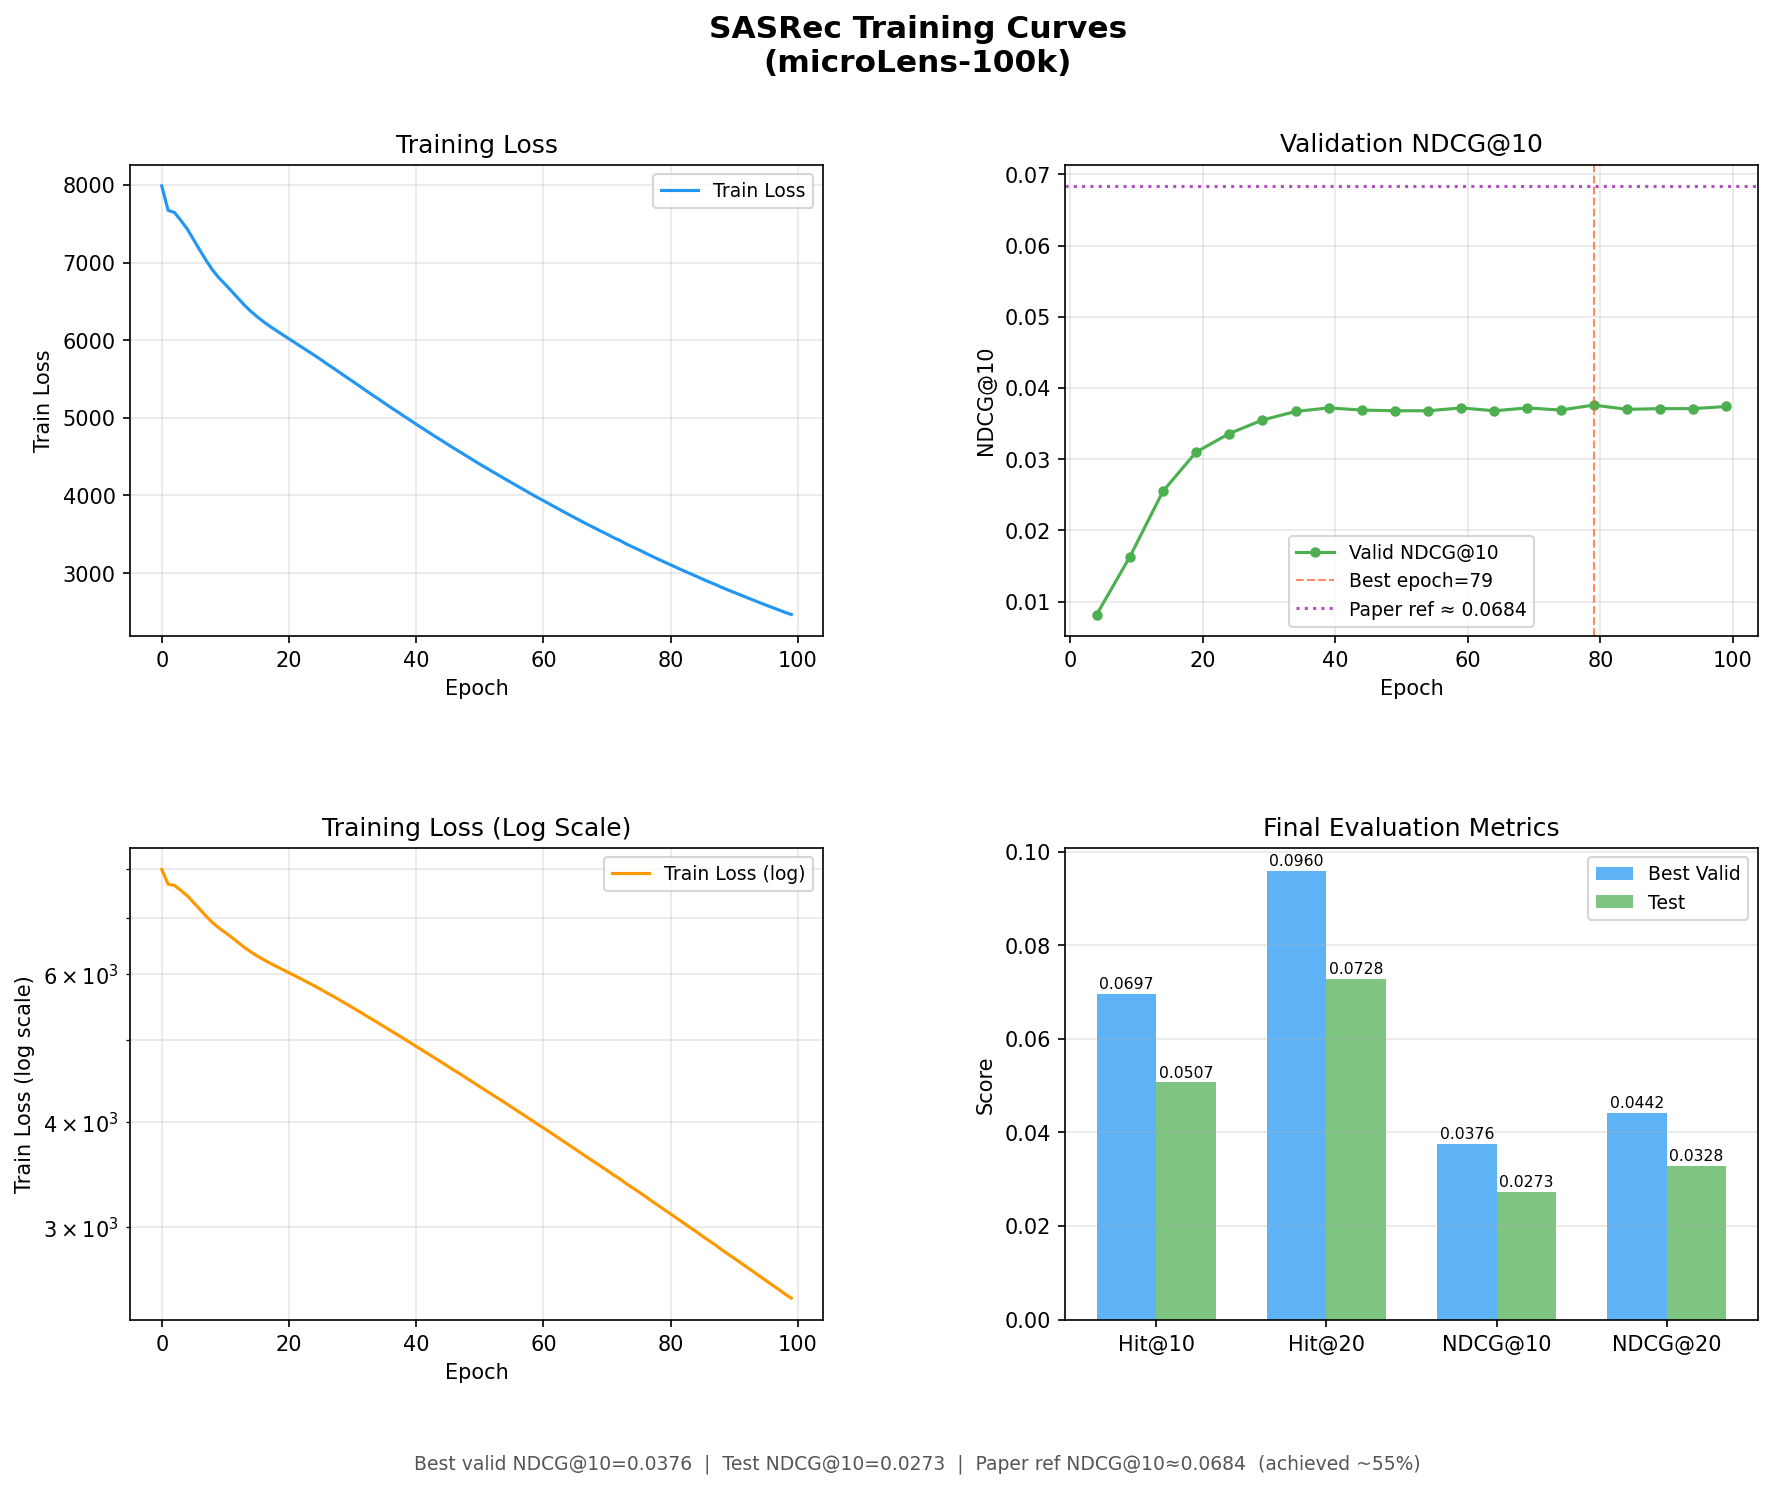
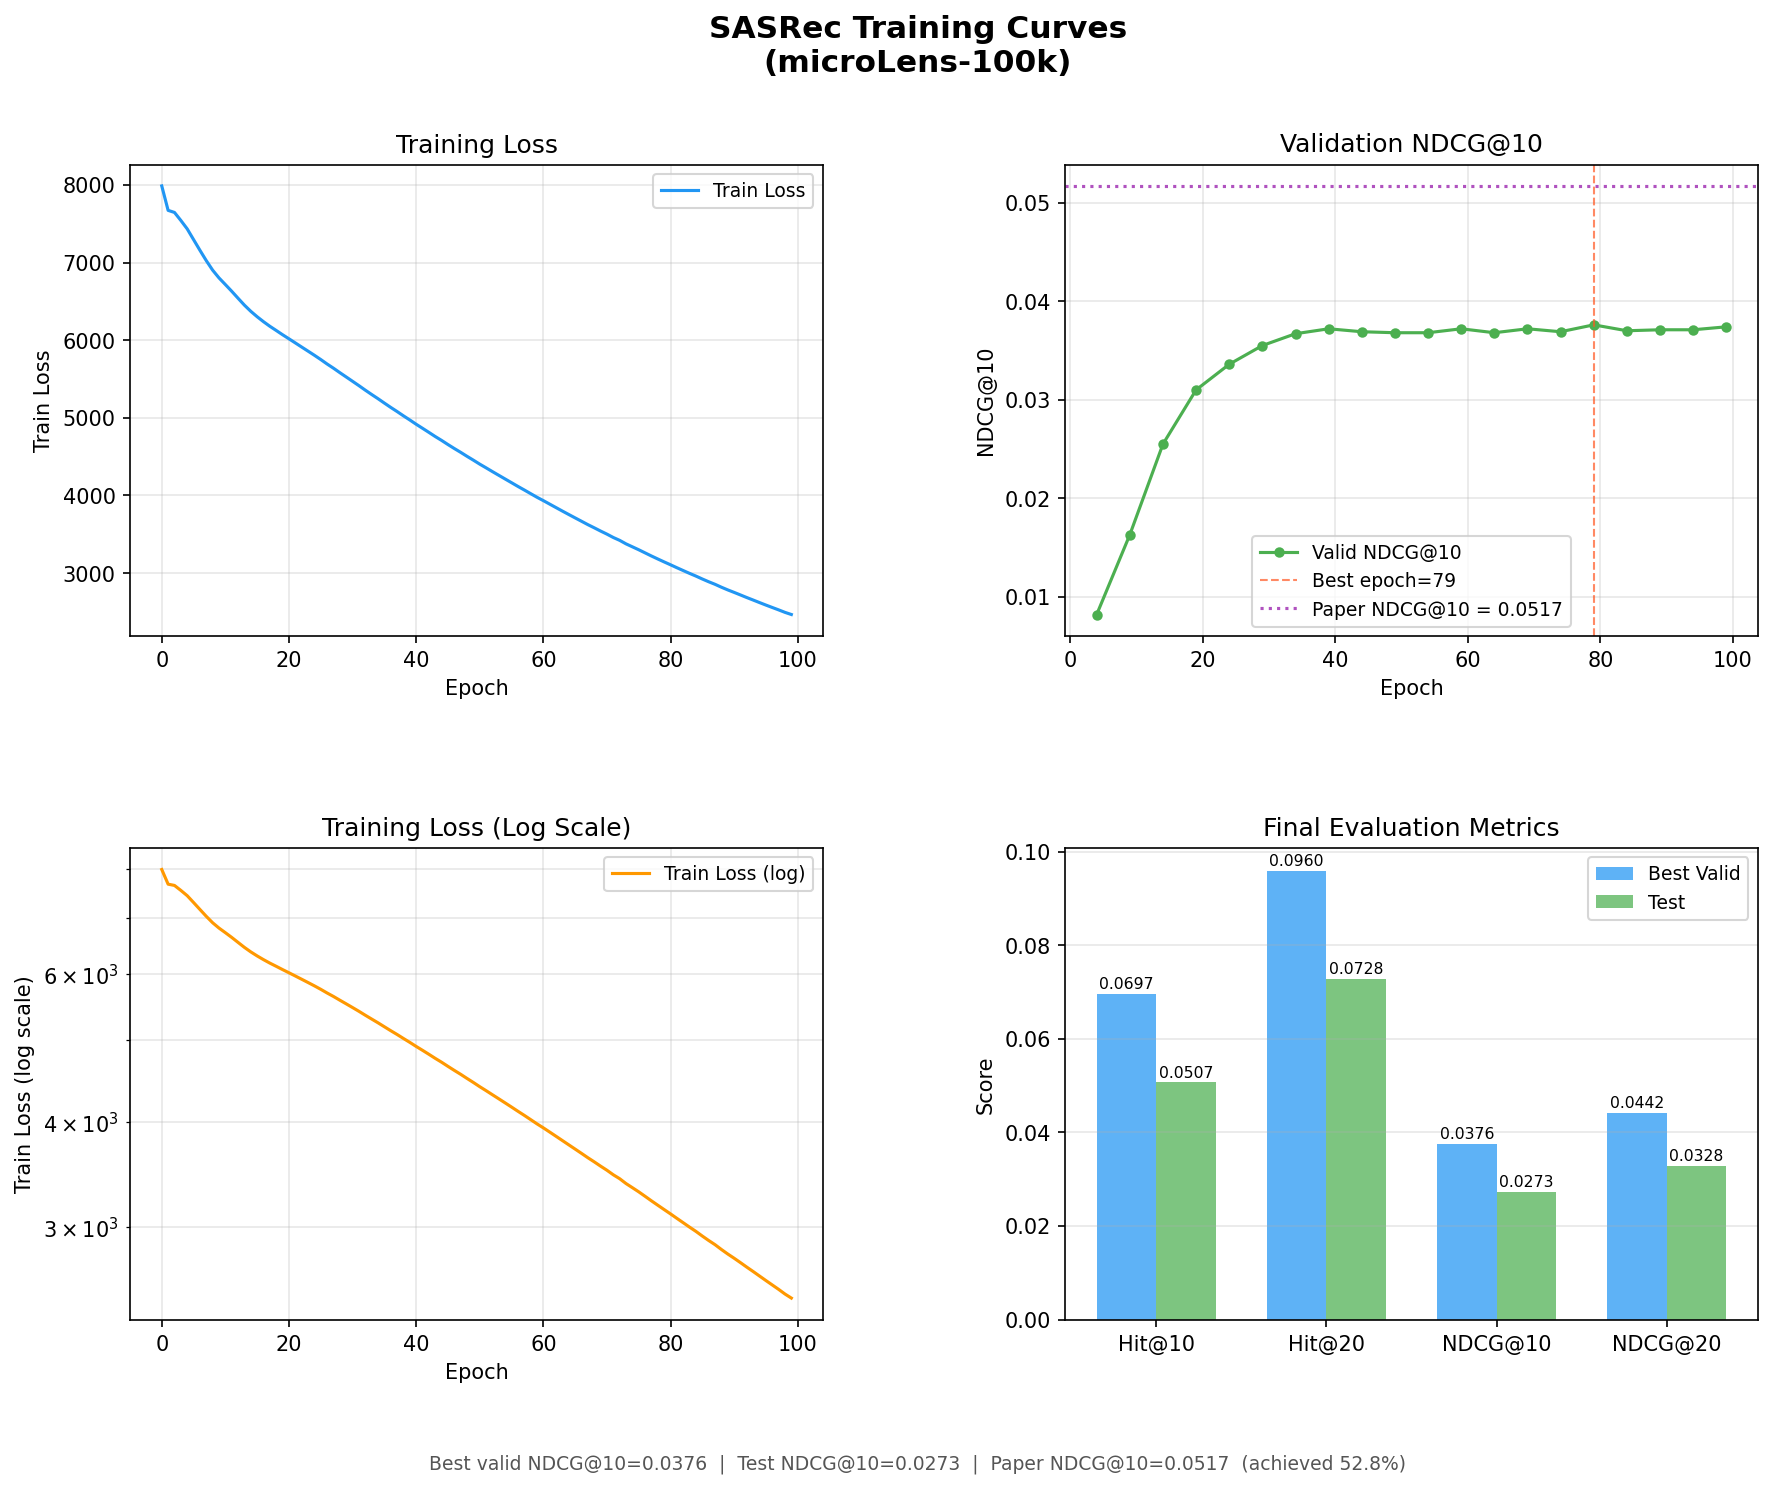
fix paper NDCG@10 reference line to use correct value (0.0517)
Previously the reference was back-calculated from the model's own score,
not taken directly from the paper (Table 2, SASRec IDRec).

diff --git a/plot_learning_curves.py b/plot_learning_curves.py
@@ -31,8 +31,8 @@ with open(LOG_PATH) as f:
 best_valid = {"hit@10": 0.0697, "hit@20": 0.0960, "ndcg@10": 0.0376, "ndcg@20": 0.0442}
 test_result = {"hit@10": 0.0507, "hit@20": 0.0728, "ndcg@10": 0.0273, "ndcg@20": 0.0328}
 
-# paper reference (논문 기준 ~55 % 성능이므로 역산)
-paper_ndcg10 = best_valid["ndcg@10"] / 0.55
+# paper reference (Table 2, SASRec IDRec)
+paper_ndcg10 = 0.0517
 
 # ── plot ───────────────────────────────────────────────────────────────────
 fig = plt.figure(figsize=(14, 10))
@@ -58,7 +58,7 @@ best_score = max(eval_scores)
 ax2.axvline(best_epoch, color="#FF5722", linestyle="--", linewidth=1, alpha=0.7,
             label=f"Best epoch={best_epoch}")
 ax2.axhline(paper_ndcg10, color="#9C27B0", linestyle=":", linewidth=1.5, alpha=0.8,
-            label=f"Paper ref ≈ {paper_ndcg10:.4f}")
+            label=f"Paper NDCG@10 = {paper_ndcg10:.4f}")
 ax2.set_xlabel("Epoch")
 ax2.set_ylabel("NDCG@10")
 ax2.set_title("Validation NDCG@10")
@@ -104,7 +104,7 @@ ax4.grid(True, alpha=0.3, axis="y")
 # annotation
 fig.text(0.5, 0.01,
          f"Best valid NDCG@10={best_score:.4f}  |  Test NDCG@10={test_result['ndcg@10']:.4f}"
-         f"  |  Paper ref NDCG@10≈{paper_ndcg10:.4f}  (achieved ~55%)",
+         f"  |  Paper NDCG@10={paper_ndcg10:.4f}  (achieved {test_result['ndcg@10']/paper_ndcg10*100:.1f}%)",
          ha="center", fontsize=9, color="#555555")
 
 plt.savefig(OUTPUT_PATH, dpi=150, bbox_inches="tight")
